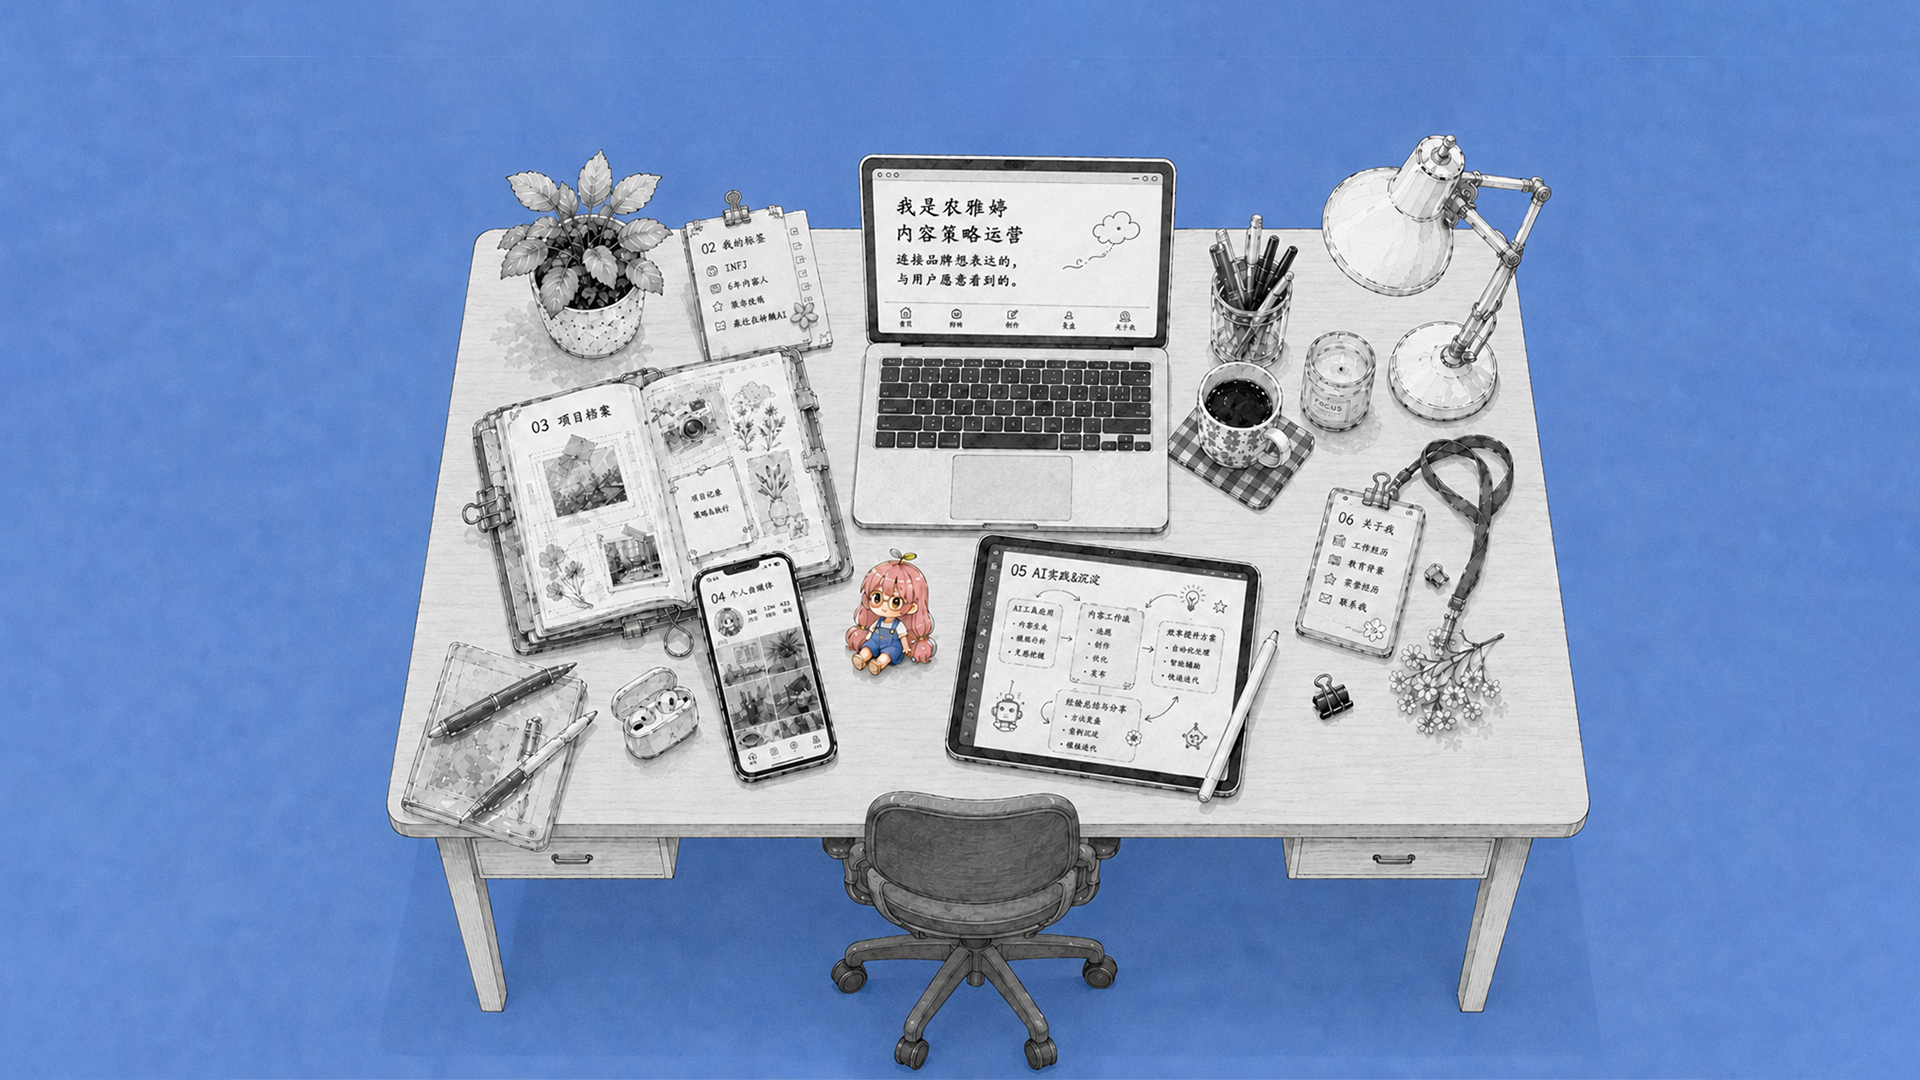
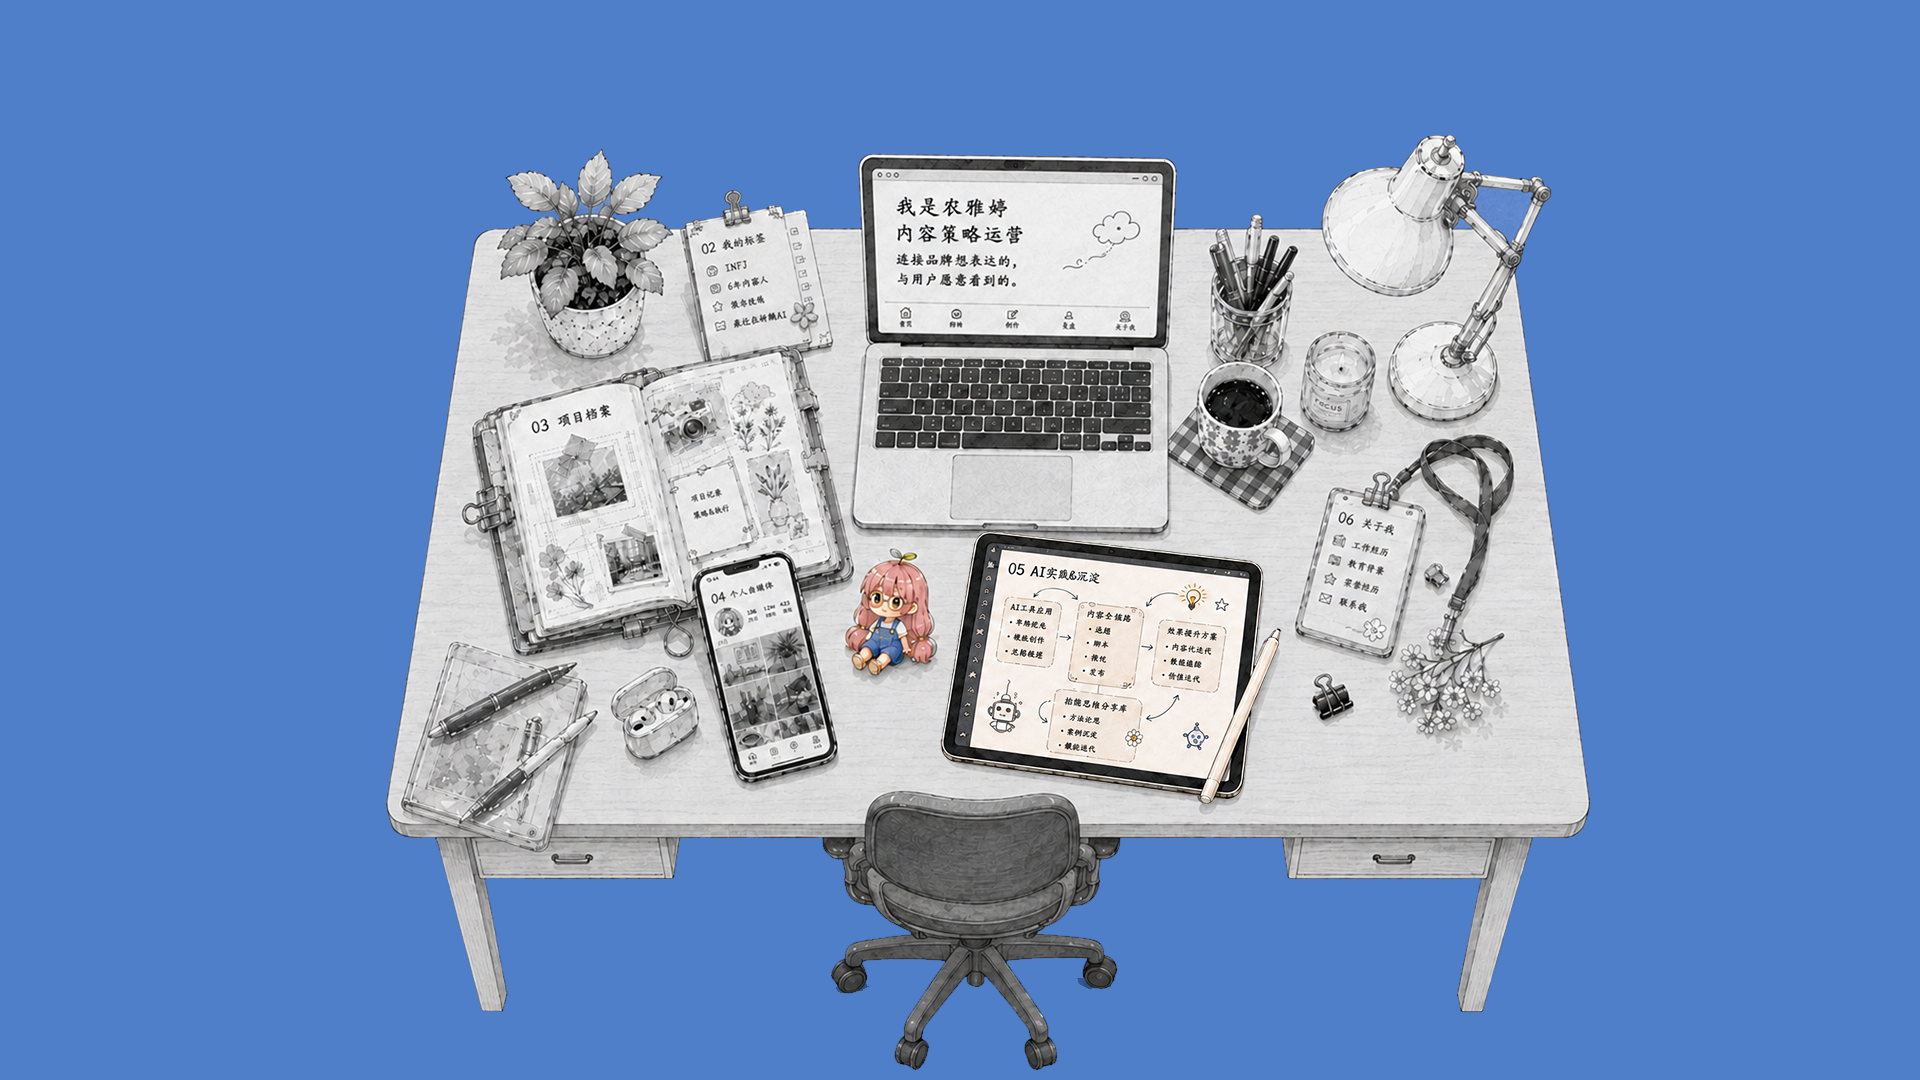
Finalize Home background and navigation state

diff --git a/components/home/top-navigation.tsx b/components/home/top-navigation.tsx
@@ -1,16 +1,18 @@
+'use client';
+
 import type { Dispatch, SetStateAction } from 'react';
 
 const navItems = [
-  { id: 'hello', label: '01 Hello', href: '/' }, { id: 'about', label: '02 About Me', href: '/about' },
+  { id: 'home', label: '01 Hello', href: '/' }, { id: 'about', label: '02 About Me', href: '/about' },
   { id: 'projects', label: '03 Projects', href: '/projects' }, { id: 'content', label: '04 Content', href: '/content' },
   { id: 'ai-lab', label: '05 AI Lab', href: '/ai-lab' }, { id: 'resume', label: '06 Resume & Contact', href: '/resume-contact' },
 ];
 
-export function TopNavigation({ hoveredItem, setHoveredItem }: { hoveredItem: string | null; setHoveredItem: Dispatch<SetStateAction<string | null>> }) {
+export function TopNavigation({ activeItem, hoveredItem, setHoveredItem }: { activeItem: string; hoveredItem: string | null; setHoveredItem: Dispatch<SetStateAction<string | null>> }) {
   return <nav className="top-navigation" aria-label="主要导航">{navItems.map((item) => {
-    const current = item.id === 'hello'; const linked = hoveredItem === item.id;
-    const enter = () => !current && setHoveredItem(item.id);
-    const leave = () => !current && setHoveredItem((value) => value === item.id ? null : value);
+    const current = item.id === activeItem; const linked = hoveredItem === item.id;
+    const enter = () => setHoveredItem(item.id);
+    const leave = () => setHoveredItem((value) => value === item.id ? null : value);
     return <a key={item.id} className={`nav-item${current ? ' is-current' : ''}${linked ? ' is-linked' : ''}`} href={item.href} aria-current={current ? 'page' : undefined} onPointerEnter={enter} onPointerLeave={leave} onFocus={enter} onBlur={leave}><span>{item.label}</span><i className="navigation-underline" aria-hidden="true" /></a>;
   })}</nav>;
 }

diff --git a/app/page.tsx b/app/page.tsx
@@ -2,4 +2,4 @@
 import { useState } from 'react';
 import { DeskScene } from '@/components/home/desk-scene';
 import { TopNavigation } from '@/components/home/top-navigation';
-export default function Home() { const [hoveredItem, setHoveredItem] = useState<string | null>(null); return <main className="home-page"><section className="desk-frame" aria-label="农雅婷的互动工作桌面"><DeskScene hoveredItem={hoveredItem} setHoveredItem={setHoveredItem} /><TopNavigation hoveredItem={hoveredItem} setHoveredItem={setHoveredItem} /></section></main>; }
+export default function Home() { const [hoveredItem, setHoveredItem] = useState<string | null>(null); return <main className="home-page"><section className="desk-frame" aria-label="农雅婷的互动工作桌面"><DeskScene hoveredItem={hoveredItem} setHoveredItem={setHoveredItem} /><TopNavigation activeItem="home" hoveredItem={hoveredItem} setHoveredItem={setHoveredItem} /></section></main>; }

diff --git a/app/[section]/page.tsx b/app/[section]/page.tsx
@@ -1,3 +1,4 @@
 import { notFound } from 'next/navigation';
+import { SectionPlaceholder } from '@/components/home/section-placeholder';
 const allowed = new Set(['about', 'projects', 'content', 'ai-lab', 'resume-contact']);
-export default async function PlaceholderPage({ params }: { params: Promise<{ section: string }> }) { const { section } = await params; if (!allowed.has(section)) notFound(); return <main aria-label={`${section} 页面待设计`} style={{ minHeight: '100svh', background: '#4f80cf' }} />; }
+export default async function PlaceholderPage({ params }: { params: Promise<{ section: string }> }) { const { section } = await params; if (!allowed.has(section)) notFound(); const activeItem = section === 'resume-contact' ? 'resume' : section; return <SectionPlaceholder activeItem={activeItem} label={`${section} 页面待设计`} />; }

diff --git a/app/globals.css b/app/globals.css
@@ -6,6 +6,7 @@ html, body { width: 100%; min-height: 100%; margin: 0; }
 body { background: var(--desk-blue); }
 
 .home-page { width: 100vw; height: 100svh; overflow: hidden; display: grid; place-items: center; background: var(--desk-blue); }
+.section-page { position: relative; width: 100vw; min-height: 100svh; overflow: hidden; background: var(--desk-blue); }
 .desk-frame { position: relative; width: min(100vw, 177.7778svh); aspect-ratio: 16 / 9; overflow: hidden; }
 .desk-scene, .desk-base { position: absolute; inset: 0; width: 100%; height: 100%; }
 .desk-base { display: block; object-fit: contain; user-select: none; }

diff --git a/components/home/section-placeholder.tsx b/components/home/section-placeholder.tsx
@@ -1,0 +1,11 @@
+'use client';
+
+import { useState } from 'react';
+import { TopNavigation } from './top-navigation';
+
+export function SectionPlaceholder({ activeItem, label }: { activeItem: string; label: string }) {
+  const [hoveredItem, setHoveredItem] = useState<string | null>(null);
+  return <main className="section-page" aria-label={label}>
+    <TopNavigation activeItem={activeItem} hoveredItem={hoveredItem} setHoveredItem={setHoveredItem} />
+  </main>;
+}
